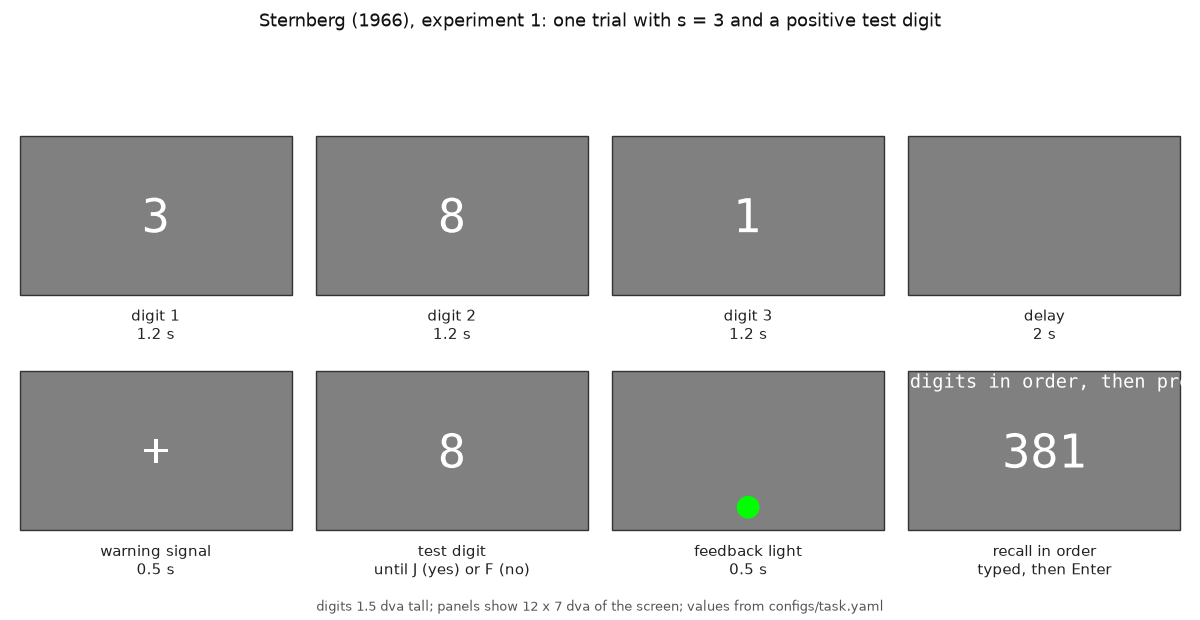
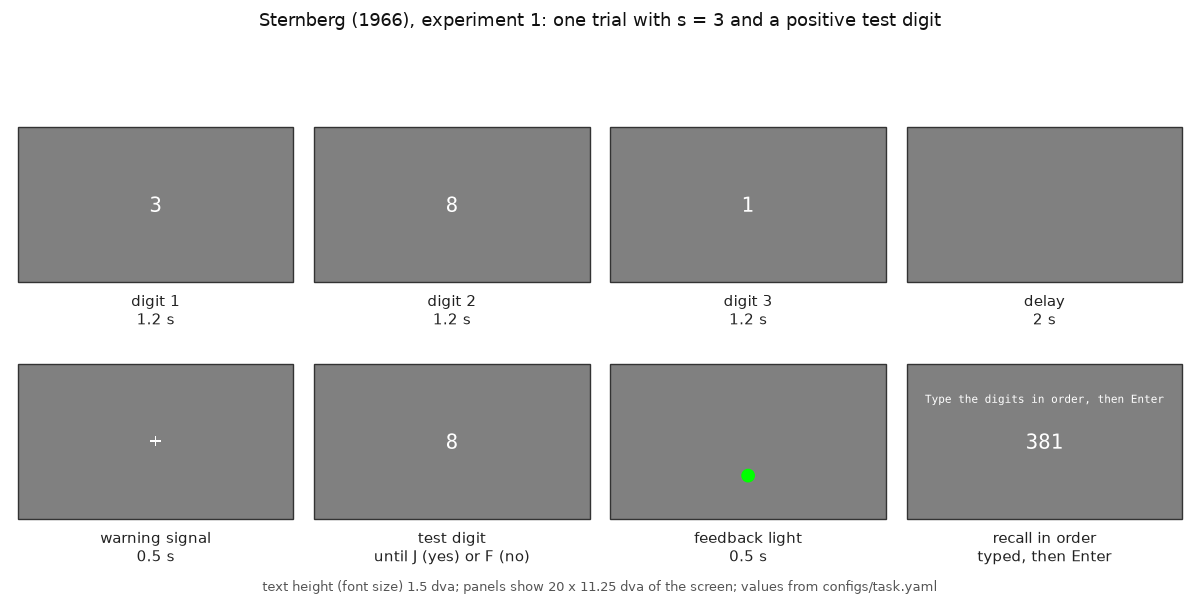
sternberg-1966: preview layout

diff --git a/classics/sternberg-1966/src/sternberg1966/preview.py b/classics/sternberg-1966/src/sternberg1966/preview.py
@@ -23,7 +23,6 @@ from matplotlib.textpath import TextPath  # noqa: E402
 from sternberg1966.task import PROJECT, VariedSetParams  # noqa: E402
 
 VIEW_W, VIEW_H = 20.0, 11.25  # each panel shows this much of the screen, in dva
-DIGIT_CAP = 0.73  # a digit's height as a fraction of the font size (DejaVu Sans Mono)
 BACKGROUND = "#808080"  # the rig's mid-grey (PsychoPy rgb 0, 0, 0)
 
 
@@ -33,7 +32,8 @@ def _rgb(color: tuple[float, float, float]) -> tuple[float, float, float]:
 
 
 def _text(ax, text: str, height_dva: float, color, x0: float, y0: float) -> None:
-    path = TextPath((0, 0), text, size=height_dva / DIGIT_CAP, prop={"family": "DejaVu Sans Mono"})
+    # PsychoPy's TextStim height is the font size (em), as here; a digit is ~0.73 of it.
+    path = TextPath((0, 0), text, size=height_dva, prop={"family": "DejaVu Sans Mono"})
     box = path.get_extents()
     shifted = path.transformed(
         matplotlib.transforms.Affine2D().translate(x0 - box.x0 - box.width / 2,
@@ -55,7 +55,7 @@ def render(out: Path, params_file: Path | None = None) -> Path:
         ("", f"feedback light\n{p.feedback_duration.ms / 1000:g} s", "lamp"),
         ("381", "recall in order\ntyped, then Enter", "recall"),
     ]
-    fig, axes = plt.subplots(2, 4, figsize=(12, 5.4), dpi=100)
+    fig, axes = plt.subplots(2, 4, figsize=(12, 6.0), dpi=100)
     fig.patch.set_facecolor("white")
     for ax, (text, label, kind) in zip(axes.flat, panels, strict=True):
         ax.add_patch(Rectangle((-VIEW_W / 2, -VIEW_H / 2), VIEW_W, VIEW_H, facecolor=BACKGROUND,
@@ -78,10 +78,10 @@ def render(out: Path, params_file: Path | None = None) -> Path:
         ax.set_xlabel(label, fontsize=11, color="#222222", labelpad=6)
     fig.suptitle("Sternberg (1966), experiment 1: one trial with s = 3 and a positive test digit",
                  fontsize=13, color="#111111")
-    fig.text(0.5, 0.015, f"digits {p.digit_height_dva:g} dva tall; panels show "
+    fig.text(0.5, 0.015, f"text height (font size) {p.digit_height_dva:g} dva; panels show "
              f"{VIEW_W:g} x {VIEW_H:g} dva of the screen; values from configs/task.yaml",
              ha="center", fontsize=9, color="#555555")
-    fig.tight_layout(rect=(0, 0.03, 1, 0.95))
+    fig.tight_layout(rect=(0, 0.03, 1, 0.95), h_pad=2.5)
     out.parent.mkdir(parents=True, exist_ok=True)
     fig.savefig(out, facecolor=fig.get_facecolor())
     plt.close(fig)
